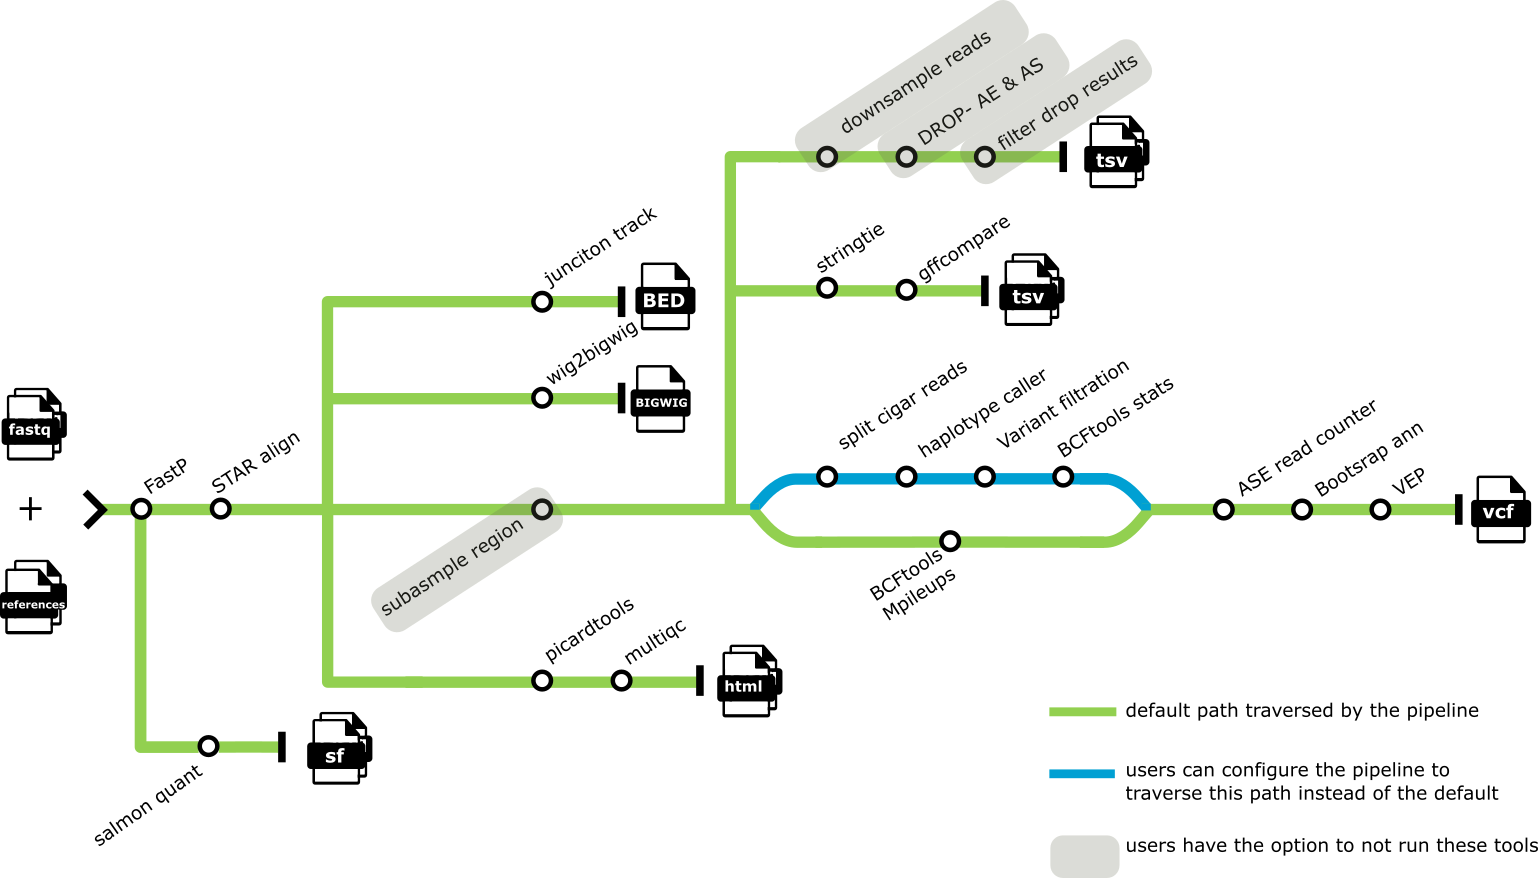
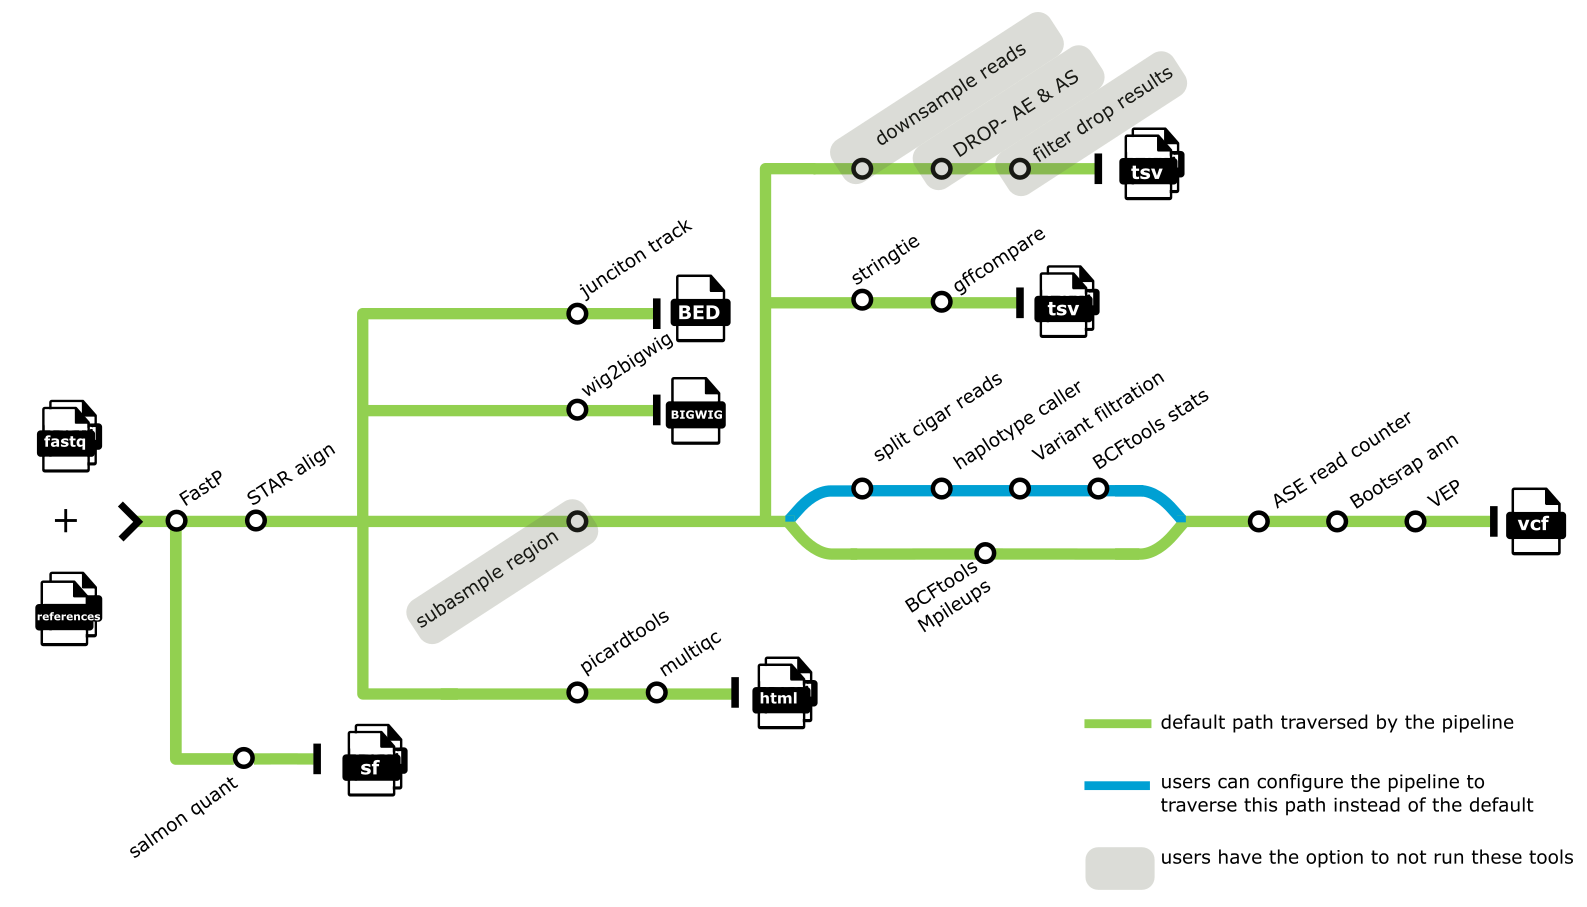
feat improved pipeline summary

diff --git a/README.md b/README.md
@@ -23,12 +23,32 @@ The pipeline is built using [Nextflow](https://www.nextflow.io), a workflow tool
      <img title="tomte workflow" src="docs/images/tomte_pipeline_metromap.png">
 </p>
 
-1. Read QC ([`FastQC`](https://www.bioinformatics.babraham.ac.uk/projects/fastqc/))
-2. Present QC for raw reads ([`MultiQC`](http://multiqc.info/))
-3. Trim reads ([`FASTP`](https://github.com/OpenGene/fastp))
-4. Align reads to the genome ([`STAR`](https://github.com/alexdobin/STAR))
-5. Alignment QC ([`Picard CollectRnaSeqMetrics`](https://broadinstitute.github.io/picard/))
-6. Transcript quantification ([`Salmon`](https://salmon.readthedocs.io/en/latest/))
+1. Trim reads ([`FASTP`](https://github.com/OpenGene/fastp))
+2. Transcript quantification ([`Salmon`](https://salmon.readthedocs.io/en/latest/))
+3. Align reads to the genome ([`STAR`](https://github.com/alexdobin/STAR))
+4. Output junction tracks 
+5. Output bigwig [`UCSC wigToBigWig`](https://genome.ucsc.edu/goldenPath/help/bigWig.html))
+6. Choice to subsample overrepresented regions ([`Samtools`](https://github.com/samtools/samtools/))
+7. Choice to downsample number of reads ([`Samtools`](https://github.com/samtools/samtools/))
+8. Detection of aberrant expression ([`DROP`](https://github.com/gagneurlab/drop/))
+9. Detection of aberrant splicing ([`DROP`](https://github.com/gagneurlab/drop/))
+10. Filter aberrant expression and aberrant splicing results
+11. Guided transcript assembly ([`StringTie`](https://ccb.jhu.edu/software/stringtie/))
+12. Filtering results of guided transcript assembly ([`GffCompare`] (https://github.com/gpertea/gffcompare))
+13. To Call SNVs either path a or b can be followed. Path A will run by default
+   a. Call SNVs 
+   1. ([`BCFtools Mpileups`] (https://samtools.github.io/bcftools/bcftools.html#mpileup))
+13.
+   b. Call SNVs
+   1. Split cigar reads ([`SplitN Cigar Reads`] (https://gatk.broadinstitute.org/hc/en-us/articles/360036858811-SplitNCigarReads))
+   2. Haplotype caller ([`Haplotype Caller`] (https://gatk.broadinstitute.org/hc/en-us/articles/360037225632-HaplotypeCaller))
+   3. Variant filtration ([`Variant Filtration`] (https://gatk.broadinstitute.org/hc/en-us/articles/360037434691-VariantFiltration))
+   4. BCFtools statistics ([`BCFtools stats`] (https://samtools.github.io/bcftools/bcftools.html#stats))
+14. Allele Specific Read Counter ([`ASEReadCounter`] (https://gatk.broadinstitute.org/hc/en-us/articles/360037428291-ASEReadCounter))
+15. Asses allelic inbalance ([`BootstrapAnn`] (https://github.com/J35P312/BootstrapAnn#bootstrapann))
+16. Annotation ([`VEP`] (https://github.com/Ensembl/ensembl-vep))
+17. Alignment QC ([`Picard CollectRnaSeqMetrics`](https://broadinstitute.github.io/picard/))
+18. Present QCs ([`MultiQC`](http://multiqc.info/))
 
 ## Usage
 
